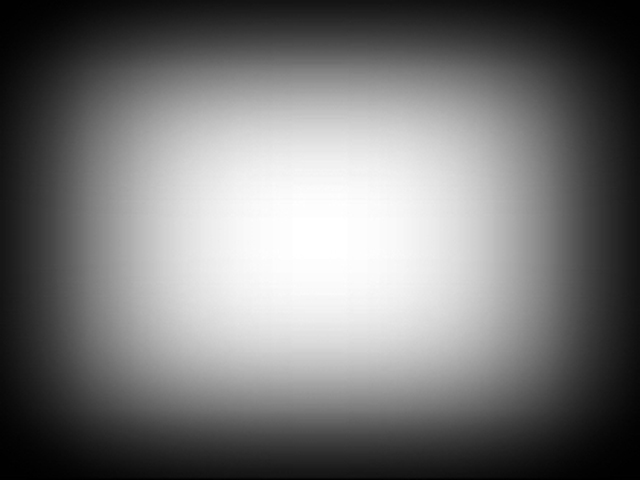
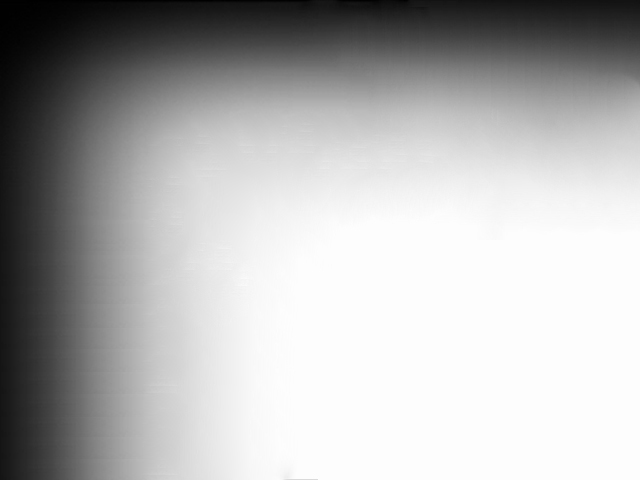
Updated blur masks, findImageBorders comments, added video_masks folder

diff --git a/MultimediaLocator/src/multimediaLocator/WMV_MediaSegment.java b/MultimediaLocator/src/multimediaLocator/WMV_MediaSegment.java
@@ -8,20 +8,20 @@ import java.util.List;
  * @author davidgordon
  * 
  */
-public class WMV_MediaSegment 
+public class WMV_MediaSegment
 {
 	private int id;
 	List<Integer> images;					// Images in segment
-//	List<Integer> videos;					// Images in segment
-	
-	private float left, right, centerDirection;		// Upper and lower bounds for direction (in degrees)
-	private float bottom, top, centerElevation;		// Upper and lower bounds (in degrees)
-	private boolean hidden;
+//	List<Integer> videos;					// Videos in segment
 
-	private float stitchingMinAngle;
+	private float left, right;				// Left and right bounding angles (in degrees)
+	private float centerDirection;			// Horizontal center angle (in degrees)
+	private float bottom, top;				// Upper and lower bounding angles (in degrees)
+	private float centerElevation;			// Vertical center angle (in degrees)
 	
-//	WMV_MediaSegment( int newID, List<Integer> newImages, List<Integer> newVideos, float newLower, float newUpper, float newCenter,
-//			  float newLowerElevation, float newUpperElevation, float newCenterElevation, float newStitchingMinAngle )
+	private boolean hidden;					// Whether media segment is hidden
+	private float stitchingMinAngle;		// Minimum angle between images to stitch together
+	
 	WMV_MediaSegment( int newID, List<Integer> newImages, float newLower, float newUpper, float newCenter,
 			  float newLowerElevation, float newUpperElevation, float newCenterElevation, float newStitchingMinAngle )
 	{
@@ -42,47 +42,63 @@ public class WMV_MediaSegment
 	}
 	
 	/**
-	 * Associate each media item with a center or edge (left, right, bottom or top) position
+	 * Find horizontal and vertical edges at which each image borders segment edge,
+	 * in form of (horizBorderID, vertBorderID), where
+	 * 
+	 * horizBordersID key:	0: Left  1: Center  2: Right  3: Both (Left+Right) 
+	 * vertBordersID	key:    0: Top   1: Center  2: Bottom 3: Both (Top+Bottom)
+	 * 
+	 * Example: In segment below, Image A == (Center, Top), Image B == (Bottom, Right),
+	 * Image C == (Both, Both), only image in segment
+	 * Image D == (Both, Top)
+	 * 	_______________		_____		_____
+	 * 	|	|_A_|	  |		|_C_|		|_D_|
+	 * 	|		  ____|					|   |
+	 * 	|_________|_B_|					|___|
+	 * 
+	 * Both horizBorderID and vertBorderID are used in determining image mask, 
+	 * in following format: blurMask[horizBorderID][vertBorderID].jpg
+	 * 
+	 * @param imageList All images in field
 	 */
-	public void findBorders(ArrayList<WMV_Image> imageList)
+	public void findImageBorders(ArrayList<WMV_Image> imageList)
 	{
 		if(images != null)
 		{
-			for(int i:images)
+			for(int i:images)		// Determine mask for image: blurMask[horizBorderID][vertBorderID].jpg
 			{
-				int horizBorderID = 1;					// horizBorderID    0: Left  1: Center  2: Right  3: Left+Right
-				int vertBorderID = 1;					// vertBorderID		0: Top  1: Center  2: Bottom  3: Top+Bottom
+				int horizBordersID = 1;					
+				int vertBordersID = 1;					
 
 				WMV_Image img = imageList.get(i);
 				float xDir = img.getDirection();
 				float yDir = img.getElevation();
 
 				if(xDir - left < stitchingMinAngle)
-					horizBorderID = 0;				// Left
+					horizBordersID = 0;				// Left
 
 				if(right - xDir < stitchingMinAngle)
 				{
-					if(horizBorderID == 0)
-						horizBorderID = 3;			// Left+Right
+					if(horizBordersID == 0)
+						horizBordersID = 3;			// Both (Left+Right)
 					else
-						horizBorderID = 2;			// Right
+						horizBordersID = 2;			// Right
 				}
 
 				if(yDir - top < stitchingMinAngle)
-					vertBorderID = 0;				// Top
+					vertBordersID = 0;				// Top
 
 				if(bottom - yDir < stitchingMinAngle)
 				{
-					if(vertBorderID == 0)
-						vertBorderID = 3;			// Top+Bottom
+					if(vertBordersID == 0)
+						vertBordersID = 3;			// Both (Top+Bottom)
 					else
-						vertBorderID = 2;			// Bottom
+						vertBordersID = 2;			// Bottom
 				}
 
-				img.setHorizBorderID(horizBorderID);
-				img.setVertBorderID(vertBorderID);
+				img.setHorizBorderID(horizBordersID);
+				img.setVertBorderID(vertBordersID);
 				img.setBlurMaskID();
-//				img.setBlurMask();
 
 //				if(p.p.p.p.debug.image)
 //					PApplet.println("Found image "+img.getID()+" borders horiz:"+horizBorderID+" vert:"+vertBorderID);

diff --git a/MultimediaLocator/src/multimediaLocator/WMV_Image.java b/MultimediaLocator/src/multimediaLocator/WMV_Image.java
@@ -121,7 +121,7 @@ public class WMV_Image extends WMV_Media
 		catch(RuntimeException ex)
 		{
 			if(getDebugSettings().image || getDebugSettings().main)
-				System.out.println("Error with Blur Mask... "+ex+" state.horizBorderID:"+state.horizBorderID+" state.vertBorderID:"+state.vertBorderID);
+				System.out.println("Error with Blur Mask... "+ex+" state.horizBorderID:"+state.horizBordersID+" state.vertBorderID:"+state.vertBordersID);
 		}
 		
 		return result;
@@ -1051,9 +1051,9 @@ public class WMV_Image extends WMV_Media
 	  */
 	 public void setBlurMaskID()
 	 {
-		 if(state.horizBorderID == 0)
+		 if(state.horizBordersID == 0)
 		 {
-			 switch(state.vertBorderID)
+			 switch(state.vertBordersID)
 			 {
 			 case 0:
 //				 blurMask = p.p.blurMaskLeftTop;
@@ -1074,9 +1074,9 @@ public class WMV_Image extends WMV_Media
 				 break;
 			 }
 		 }
-		 else if(state.horizBorderID == 1)
+		 else if(state.horizBordersID == 1)
 		 {
-			 switch(state.vertBorderID)
+			 switch(state.vertBordersID)
 			 {
 			 case 0:
 //				 blurMask = p.p.blurMaskCenterTop;
@@ -1097,9 +1097,9 @@ public class WMV_Image extends WMV_Media
 				 break;
 			 }
 		 }
-		 else if(state.horizBorderID == 2)
+		 else if(state.horizBordersID == 2)
 		 {
-			 switch(state.vertBorderID)
+			 switch(state.vertBordersID)
 			 {
 			 case 0:
 //				 blurMask = p.p.blurMaskRightTop;
@@ -1120,9 +1120,9 @@ public class WMV_Image extends WMV_Media
 				 break;
 			 }
 		 }
-		 else if(state.horizBorderID == 3)
+		 else if(state.horizBordersID == 3)
 		 {
-			 switch(state.vertBorderID)
+			 switch(state.vertBordersID)
 			 {
 			 case 0:
 //				 blurMask = p.p.blurMaskBothTop;
@@ -1294,12 +1294,12 @@ public class WMV_Image extends WMV_Media
 
 	 public void setHorizBorderID(int newHorizBorderID)
 	 {
-		 state.horizBorderID = newHorizBorderID;
+		 state.horizBordersID = newHorizBorderID;
 	 }
 
 	 public void setVertBorderID(int newVertBorderID)
 	 {
-		 state.vertBorderID = newVertBorderID;
+		 state.vertBordersID = newVertBorderID;
 	 }
 	 
 	 public void setBlurMaskID(int newBlurMaskID)

diff --git a/MultimediaLocator/src/multimediaLocator/WMV_Field.java b/MultimediaLocator/src/multimediaLocator/WMV_Field.java
@@ -2482,8 +2482,8 @@ public class WMV_Field
 			{
 				for(WMV_Date d : c.getDateline())
 				{
-					//				if(d.dateTime == null)
-					//					System.out.println("  d.dateTime == null"+" timeInitialized? "+d.timeInitialized);
+//					if(d.dateTime == null)
+//						System.out.println("  d.dateTime == null"+" timeInitialized? "+d.timeInitialized);
 					if(d.timeInitialized == false)
 						System.out.println("  timeInitialized == "+d.timeInitialized+" d.dateTime == null?"+(d.dateTime == null));
 					if(d.dateTimeString == null)
@@ -2491,9 +2491,8 @@ public class WMV_Field
 					if(d.timeZoneID == null)
 						System.out.println("  d.timeZoneID == null");
 				}
-				//			if(!error)
-				//				System.out.println("No errors...");
-				//			System.out.println("  Checking timeline dates for null variables...");
+//				if(!error) System.out.println("No errors...");
+//				System.out.println("  Checking timeline dates for null variables...");
 				error = false;
 				for(WMV_TimeSegment ts : c.getTimeline().timeline)
 				{
@@ -2519,9 +2518,8 @@ public class WMV_Field
 							System.out.println("  t.timeZoneID == null");
 					}
 				}
-				//			if(!error)
-				//				System.out.println("No errors...");
-				//			System.out.println("  Checking timelines dates for null variables...");
+//				if(!error) System.out.println("No errors...");
+//				System.out.println("  Checking timelines dates for null variables...");
 				error = false;
 				for(WMV_Timeline tl : c.getTimelines())
 				{
@@ -2640,7 +2638,6 @@ public class WMV_Field
 		isl.setImages(imageStates);
 		return isl;
 	}
-
 
 	/**
 	 * Capture current field state for exporting to file

diff --git a/MultimediaLocator/src/multimediaLocator/WMV_Cluster.java b/MultimediaLocator/src/multimediaLocator/WMV_Cluster.java
@@ -630,7 +630,8 @@ public class WMV_Cluster
 		
 		boolean done = false;
 		
-		if(allImages.size() == 0) done = true;					// Do nothing if no images
+		if(allImages.size() == 0) 
+			done = true;						// Do nothing if no images
 		
 		if(allImages.size() == 1)
 		{
@@ -646,7 +647,7 @@ public class WMV_Cluster
 			float centerElevation = imageList.get(allImages.get(0)).getElevation();
 
 			WMV_MediaSegment newSegment = new WMV_MediaSegment( 0, curImageList, right, left, centerDirection, top, bottom, centerElevation, worldSettings.stitchingMinAngle );
-			newSegment.findBorders(imageList);
+			newSegment.findImageBorders(imageList);
 			segments.add( newSegment );
 
 			if(debugSettings.cluster && debugSettings.detailed)
@@ -764,7 +765,7 @@ public class WMV_Cluster
 			}
 
 			WMV_MediaSegment newSegment = new WMV_MediaSegment( segments.size(), curImages, left, right, centerDirection, bottom, top, centerElevation, worldSettings.stitchingMinAngle );
-			newSegment.findBorders(imageList);
+			newSegment.findImageBorders(imageList);
 			segments.add( newSegment );
 
 			if((debugSettings.cluster && debugSettings.detailed))

diff --git a/MultimediaLocator/src/multimediaLocator/WMV_ImageState.java b/MultimediaLocator/src/multimediaLocator/WMV_ImageState.java
@@ -16,8 +16,8 @@ public class WMV_ImageState
 	/* Graphics */
 	public PVector[] vertices, sVertices;			// Vertex list
 	public int blurMaskID;							// ID of blur mask 
-	public int horizBorderID = -1;					// Horizontal border ID   	0: Left 1: Center 2: Right  3: Left+Right
-	public int vertBorderID = -1;					// Vertical border ID		0: Bottom 1: Center 2: Top  3: Top+Bottom
+	public int horizBordersID = -1;					// Horizontal borders ID   	0: Left 1: Center 2: Right  3: Both (Left+Right)
+	public int vertBordersID = -1;					// Vertical borders ID		0: Bottom 1: Center 2: Top  3: Both (Top+Bottom)
 	public float outlineSize = 10.f;				// Size of the outline around a selected image
 
 	/* Model */

diff --git a/MultimediaLocator/src/multimediaLocator/WMV_Video.java b/MultimediaLocator/src/multimediaLocator/WMV_Video.java
@@ -1000,8 +1000,8 @@ class WMV_Video extends WMV_Media          		// Represents a video in virtual sp
 			metadata.rotation = i.getRotation();             
 			metadata.rotation = i.getRotation();             
 
-			setHorizBorderID(i.getState().horizBorderID);
-			setVertBorderID(i.getState().vertBorderID);
+			setHorizBorderID(i.getState().horizBordersID);
+			setVertBorderID(i.getState().vertBordersID);
 			setBlurMaskID();
 
 			setSensorSize( i.getSensorSize() );
